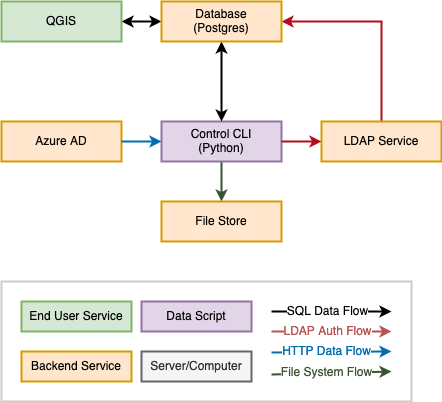
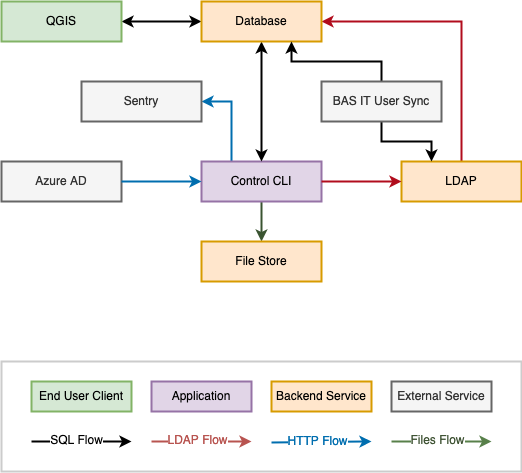
Updating docs diagrams

Changed region(s): [[0.0, 0.0, 1.0, 0.6269], [0.0, 0.6866, 1.0, 1.0], [0.0, 0.0, 0.0294, 0.0299]]

diff --git a/CHANGELOG.md b/CHANGELOG.md
@@ -16,6 +16,11 @@ Wherever possible, a reference to an issue in the project issue tracker should b
 * Documentation improvements based on production setup
   [#128](https://gitlab.data.bas.ac.uk/MAGIC/ops-data-store/-/issues/128)
 
+### Changed
+
+* Updating documentation diagrams
+  [#123](https://gitlab.data.bas.ac.uk/MAGIC/ops-data-store/-/issues/123)
+
 ## [0.6.1] - 2023-11-21
 
 ### Fixed
